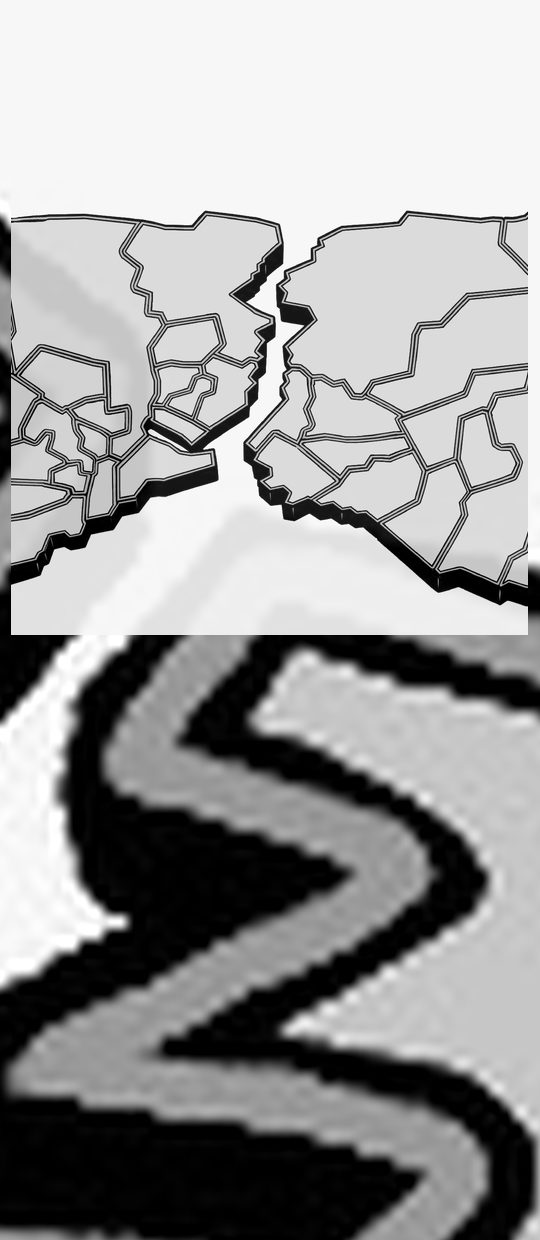
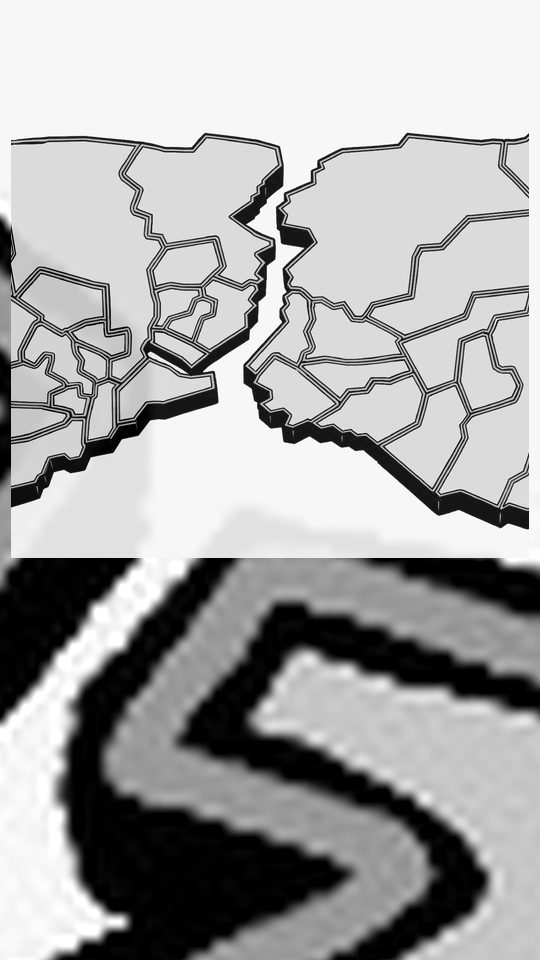
Keep the two bars in front of everything, and put the frames on one 9:16 canvas
── The bars ──

Nothing the page draws may pass in front of the profile bar or the tab
bar. The zoom broke that: scaling a column grew it over the tab bar.

The cause is older than the zoom. The tab bar's z-index: 100 was a lie --
it sits inside .section-rule, which is position: absolute with
z-index: 1, so the 100 was scoped inside that stacking context and the
bar really competed at 1. Kahvehane's games column is also 1 and comes
later in the DOM, so they were tied and document order decided. Nothing
overlapped, so nothing showed it, until something scaled.

So .section-rule stops creating a stacking context on a phone and both
bars are stated together in frames.css, above every z-index the pages
use and below the 500 overlay layer. The rules are !important because a
virtually-navigated page's <style data-page> is appended at navigation
time and lands after frames.css -- without that the bars held on a real
load and were climbed over by the arriving page on every swipe.

Verified by probing 24 points across both bars, through every vertical
and horizontal transition on all four pages, during the drag and in
flight: clear everywhere.

── The frames ──

They are drawn on one 9:16 canvas (1080x1920) and laid over the whole
viewport, not over .map-panel. The two levels do not share a map box --
Kütüphane's is full-bleed 390x896, Kahvehane's a 390x390 square -- so a
strip measured onto the map would begin in one shape and end in another,
[…]

diff --git a/frames.css b/frames.css
@@ -685,3 +685,42 @@ html.ist-arriving-out body.ist-zoom #ist-content > * { transform: scale(1.35); o
      two drawings would produce a third one nobody drew. */
   transition: none;
 }
+
+/* ══════════════════════════════════════════════════════════════
+   THE TWO BARS ARE OMNIPRESENT
+   ──────────────────────────────────────────────────────────────
+   Nothing the page draws may ever pass in front of the profile bar or
+   the tab bar. They are the phone's furniture: who is here, and where
+   you can go. A card sliding over one is the app losing its frame.
+
+   This needs saying because the tab bar's own `z-index: 100` was a lie.
+   It sits inside `.section-rule`, which is `position: absolute` with
+   `z-index: 1` -- a stacking context -- so the 100 was scoped INSIDE it
+   and the bar actually competed against the page at 1. Kahvehane's games
+   column is also 1 and comes later in the DOM, so the two were tied and
+   document order decided. Nothing overlapped, so nothing showed it --
+   until the zoom scaled the column and it grew over the bar and won.
+
+   So: on a phone `.section-rule` stops creating a stacking context (it
+   is a zero-sized nothing there anyway, whose only job is to hold the
+   fixed header), and both bars are stated together, once, above every
+   z-index the pages themselves use. Deliberately still below the 500
+   overlay layer -- THE sheet is a surface that rises OVER the page and
+   comes to rest under the top bar by its own arithmetic, which is a
+   different thing from a card climbing over the furniture.
+   ══════════════════════════════════════════════════════════════ */
+@media (max-width: 768px) {
+  /* !important, and not for tidiness: a virtually-navigated page has its
+     <style data-page> appended to <head> at navigation time, so it lands
+     AFTER this file and beats it at equal specificity. Without this the
+     bars held on every real page load and were climbed over by the
+     arriving page on every swipe -- which is the harder bug to see,
+     because it only exists mid-transition. */
+  .section-rule {
+    /* Un-trap the header: positioned + z-index:auto is not a stacking
+       context, so the bar below competes at the root, where it belongs. */
+    z-index: auto !important;
+  }
+  .section-rule > header { z-index: 400 !important; }
+  #ist-pc-mount { z-index: 401 !important; }
+}

diff --git a/map-frames.js b/map-frames.js
@@ -112,16 +112,28 @@
     });
   }
 
-  // The box the frames are drawn into: the map's own, measured live.
-  // Deliberately not stored anywhere -- the map box differs between the
-  // levels (Kütüphane's is the whole screen, Kahvehane's a square hero),
-  // and it is the OUTGOING page's box the strip starts in.
-  function mapBox() {
-    const panel = document.querySelector('.map-panel');
-    if (!panel) return null;
-    const r = panel.getBoundingClientRect();
-    if (r.width < 1 || r.height < 1) return null;
-    return r;
+  // ── The box the frames are drawn into: the whole screen ──
+  // Not the map panel's box, which is the obvious choice and the wrong
+  // one: the two levels do not share it (Kütüphane's map is the whole
+  // screen, Kahvehane's a square hero), so a strip measured onto it
+  // would start in one shape and have to end in another, and every
+  // frame would land somewhere slightly different from the last.
+  //
+  // The frames are drawn on ONE canvas at ONE aspect (9:16, see
+  // assets/map/zoom/README.md) and laid over the viewport with
+  // object-fit: cover -- so they are registered with each other by
+  // construction, which is the only property the drawings actually need
+  // from the code. Whatever the phone's own aspect is, all of them are
+  // cropped identically, so nothing shifts between one frame and the
+  // next.
+  //
+  // The two bars stay in front of it: this sits at z-index 7, they are
+  // at 400/401 (see "THE TWO BARS ARE OMNIPRESENT" in frames.css).
+  function stripBox() {
+    const w = document.documentElement.clientWidth;
+    const h = window.innerHeight;
+    if (w < 1 || h < 1) return null;
+    return { top: 0, left: 0, width: w, height: h };
   }
 
   function hitRegions() {
@@ -139,7 +151,7 @@
     // un-warmed journey silently falls back to the scale transform.
     const imgs = decoded[k];
     if (!imgs) return null;
-    const box = mapBox();
+    const box = stripBox();
     if (!box) return null;
 
     if (live) live.end();

diff --git a/anahane.html b/anahane.html
@@ -10,7 +10,7 @@
   <script src="ist-date.js?v=2"></script>
   <script src="router.js?v=9"></script>
   <script src="i18n.js?v=18"></script>
-  <script src="map-frames.js?v=1"></script>
+  <script src="map-frames.js?v=2"></script>
   <script src="palette.js?v=1"></script>
   <script src="loading-screen.js?v=2"></script>
   <link rel="stylesheet" href="palette.css?v=3">
@@ -1478,7 +1478,7 @@
        sheet.css, driven by IstSheet.pull). This page only opts in, on the
        markup, and keeps its own white single-box treatment above. */
   </style>
-  <link rel="stylesheet" href="frames.css?v=4">
+  <link rel="stylesheet" href="frames.css?v=5">
 </head>
 <body>
 

diff --git a/mahalle.html b/mahalle.html
@@ -12,7 +12,7 @@
   <script src="ist-date.js?v=2"></script>
   <script src="router.js?v=9"></script>
   <script src="i18n.js?v=18"></script>
-  <script src="map-frames.js?v=1"></script>
+  <script src="map-frames.js?v=2"></script>
   <script src="palette.js?v=1"></script>
   <link rel="stylesheet" href="palette.css?v=3">
   <link rel="stylesheet" href="profile-card.css?v=22">
@@ -40,7 +40,7 @@
   </script>
   <script src="sheet.js?v=5"></script>
   <link rel="stylesheet" href="sheet.css?v=7">
-  <link rel="stylesheet" href="frames.css?v=4">
+  <link rel="stylesheet" href="frames.css?v=5">
 
   <style data-page="mahalle">
     :root {

diff --git a/kahvehane.html b/kahvehane.html
@@ -12,7 +12,7 @@
   <script src="ist-date.js?v=2"></script>
   <script src="router.js?v=9"></script>
   <script src="i18n.js?v=18"></script>
-  <script src="map-frames.js?v=1"></script>
+  <script src="map-frames.js?v=2"></script>
   <script src="scoreboard.js?v=1"></script>
   <script src="palette.js?v=1"></script>
   <link rel="stylesheet" href="palette.css?v=3">
@@ -2936,7 +2936,7 @@
     }
     .author-link:hover { text-decoration: underline; }
   </style>
-  <link rel="stylesheet" href="frames.css?v=4">
+  <link rel="stylesheet" href="frames.css?v=5">
 </head>
 <body>
 

diff --git a/kutuphane.html b/kutuphane.html
@@ -12,7 +12,7 @@
   <script src="ist-date.js?v=2"></script>
   <script src="router.js?v=9"></script>
   <script src="i18n.js?v=18"></script>
-  <script src="map-frames.js?v=1"></script>
+  <script src="map-frames.js?v=2"></script>
   <script src="palette.js?v=1"></script>
   <link rel="stylesheet" href="palette.css?v=3">
   <script src="game-locks.js?v=2" defer></script>
@@ -3921,7 +3921,7 @@
     }
     .kefil-link:hover { color: var(--accent); }
   </style>
-  <link rel="stylesheet" href="frames.css?v=4">
+  <link rel="stylesheet" href="frames.css?v=5">
 </head>
 <body>
 

diff --git a/bulmaca.html b/bulmaca.html
@@ -766,7 +766,7 @@
     }
     .author-link:hover { text-decoration: underline; }
   </style>
-  <link rel="stylesheet" href="frames.css?v=4">
+  <link rel="stylesheet" href="frames.css?v=5">
   <script src="https://cdn.jsdelivr.net/npm/@supabase/supabase-js@2"></script>
   <script src="ist-date.js?v=2"></script>
   <script src="i18n.js?v=18"></script>

diff --git a/admin.html b/admin.html
@@ -1081,7 +1081,7 @@
     .ist-avatar-stack { position: relative; display: block; width: 100%; height: 100%; }
     .ist-avatar-stack img { position: absolute; inset: 0; width: 100%; height: 100%; object-fit: cover; }
   </style>
-  <link rel="stylesheet" href="frames.css?v=4">
+  <link rel="stylesheet" href="frames.css?v=5">
 </head>
 <body>
 

diff --git a/index.html b/index.html
@@ -157,7 +157,7 @@
       margin-bottom: 4px;
     }
   </style>
-  <link rel="stylesheet" href="frames.css?v=4">
+  <link rel="stylesheet" href="frames.css?v=5">
   <link rel="stylesheet" href="loading-screen.css?v=2">
 </head>
 <body>

diff --git a/sozcel.html b/sozcel.html
@@ -1731,7 +1731,7 @@
     }
     .author-link:hover { text-decoration: underline; }
   </style>
-  <link rel="stylesheet" href="frames.css?v=4">
+  <link rel="stylesheet" href="frames.css?v=5">
 </head>
 <body>
 

diff --git a/tumcel.html b/tumcel.html
@@ -1015,7 +1015,7 @@
       .reset-info { font-size: 10px; }
     }
   </style>
-  <link rel="stylesheet" href="frames.css?v=4">
+  <link rel="stylesheet" href="frames.css?v=5">
 </head>
 <body>
 

diff --git a/scripts/make-zoom-frames.py b/scripts/make-zoom-frames.py
@@ -9,24 +9,23 @@ as video, and that is a decision worth making by feel.
 
     python3 scripts/make-zoom-frames.py [N]
 
-── The geometry this is drawn against, which is a finding ──
+── The canvas: 9:16, one shape for every frame ──
 
-The two endpoints are NOT displayed in the same box, measured on a 390x844
-phone:
+Every frame is 1080x1920 and they are laid over the whole viewport with
+object-fit: cover. That is the only thing the player asks of the
+drawings, and it is what "put them on top of each other correctly"
+means: identical size, identical crop, so nothing shifts between one
+frame and the next whatever the phone's own aspect turns out to be.
 
-    Kütüphane   .map-panel  390 x 896 at y=-52   full-bleed, the whole screen
-    Kahvehane   .map-panel  390 x 390 at y= 26   a 100vw square hero
+It deliberately is NOT the map panel's box. The two levels do not share
+one -- Kütüphane's map is the whole screen (390x896 at y=-52 on a 390x844
+phone) and Kahvehane's is a 390x390 square hero -- so a strip measured
+onto the map would begin in one shape and have to end in another. The
+frames own the screen instead, and the two bars stay in front of them.
 
-And the two drawings disagree the same way: the Türkiye artwork is
-1080x2420 (tall, and its box is so nearly the same ratio that cover barely
-crops it -- the reader sees essentially all of it), while the İstanbul
-artwork is 3510x1600 (wide, cropped hard to its square).
-
-So the journey cannot be one fixed canvas. These frames are drawn in
-Kütüphane's tall full-screen box, and the city ARRIVES as the square it
-will occupy on Kahvehane, growing into exactly the rectangle that page's
-hero really stands in. The player interpolates the box the same way, so
-whichever staging is chosen later it does not have to change.
+The last frame therefore has to look like the destination page as the
+reader will actually see it, hero square and all: it stands over that
+page's real map and fades, so a disagreement becomes a visible cut.
 """
 import sys, os, math
 from PIL import Image
@@ -42,14 +41,16 @@ ISTANBUL = os.path.join(ROOT, 'assets', 'map', 'istanbul-map-mobile.png')  # 351
 # the city. Change this and every frame re-aims.
 ANCHOR = (277.0, 818.0)
 
-# The frame canvas: Kütüphane's own box at about half its device pixels.
-W, H = 540, 1240
+# The frame canvas: 9:16, at half the drawn resolution. The in-betweens
+# are on screen for ~30ms each and in motion; the endpoints are the real
+# maps at full size. Draw at 1080x1920; these placeholders are 540x960.
+W, H = 540, 960
 
-# Where Kahvehane's hero square lands inside that same box, measured from
-# the real page: screen y 26..416 of a 844-tall viewport, against a map
-# box running from y=-52 to y=844.
-SQ_TOP = int((26 - (-52)) / 896 * H)     # 108
-SQ_SIDE = int(390 / 896 * H)             # 540
+# Where Kahvehane's hero square lands on screen, expressed in this
+# canvas: the page shows it at y 26..416 of a 844-tall viewport, and the
+# canvas is cover-fitted to that viewport.
+SQ_TOP = int(26 / 844 * H)
+SQ_SIDE = int(390 / 390 * W)
 
 ZOOM = 26.0        # İstanbul is ~40px across in a 1080-wide Türkiye map
 FADE_FROM = 0.5    # where the city starts taking over from the country
